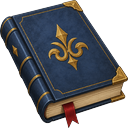
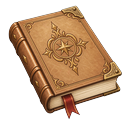
ui(symbole): neues Buch, und die zwei abgeloesten Symbole raus
Owner 13.08.2026: "buch.png ist neu" -- die Quelle war neuer als meine
Umwandlung von vor einer Stunde (braun-goldenes Lederbuch statt des blauen).
Neu gerechnet mit derselben Rezeptur (128x128, mittig auf transparenter
Leinwand, WEBP verlustfrei); Groesse, Alphakanal und Fuellung nachgeprueft.

💣 `?v=2` an beiden Fundstellen. Der DATEINAME bleibt, der INHALT aendert sich --
   ohne Stempel zeigte jeder Browser, der das blaue Buch in der letzten Stunde
   geladen hat, weiter das blaue. Der Deploy-Stempel greift hier nicht: er folgt
   nur dem, was von index.html aus verlinkt ist, und dieses Bild steht in einer
   JS-Zeichenkette (AGENTS.md §7) -- dieselbe Lage wie bei linkteilen.webp?v=2.

Geloescht: img/menu/literatur.webp und img/menu/kartensammlung.webp. Beide sind
seit e6892770 durch buch.webp bzw. stadtkarten.webp abgeloest; vorher geprueft,
dass sie im ganzen Baum niemand mehr nennt.
⚠ Auf dem SERVER bleiben sie liegen -- der Deploy loescht nie (AGENTS.md §10).
   Das ist unschaedlich: sie sind 9 KB, und niemand fordert sie mehr an.

Der Waechter icon-paths.test.js deckt genau diese Richtung ab: eine geloeschte,
aber noch genannte Datei macht ihn rot -- nachgestellt.

Abgenommen am laufenden Server: buch.webp?v=2 kommt mit HTTP 200 als image/webp,
der Browser dekodiert es als 128x128, und die beiden alten antworten mit 404.

diff --git a/js/map-features/map-features-place-extras.js b/js/map-features/map-features-place-extras.js
@@ -943,7 +943,7 @@ function buildGameLiteratureSectionMarkup(placeName, beginnt, play, covers, opts
 	var listMarkup = '<div class="avesmaps-adv__list">' + cards + '</div>';
 
 	var alleMarkup = (hasBeginnt || hasPlay || hasCovers) ? '<div class="avesmaps-adv__actions location-popup__actions"><button type="button" class="location-popup__action-button avesmaps-adv__all">'
-		+ '<img class="location-popup__action-img" src="img/menu/buch.webp" alt="" width="20" height="20" />'
+		+ '<img class="location-popup__action-img" src="img/menu/buch.webp?v=2" alt="" width="20" height="20" />'
 		+ placeExtrasEscape(tr("gameLiterature.all", "Literatur anzeigen")) + '</button></div>' : "";
 
 	var creditMarkup = avesmapsGameLiteratureCreditMarkup();
@@ -1094,7 +1094,7 @@ function buildFloatingGameLiteratureButtonMarkup(location, publicId) {
 	}
 	return popupActionButtonMarkup({
 		label: tr("gameLiterature.label", "Literatur"),
-		iconMarkup: '<img class="location-popup__action-img" src="img/menu/buch.webp" alt="" width="20" height="20" />',
+		iconMarkup: '<img class="location-popup__action-img" src="img/menu/buch.webp?v=2" alt="" width="20" height="20" />',
 		attributes: attributes,
 	});
 }
